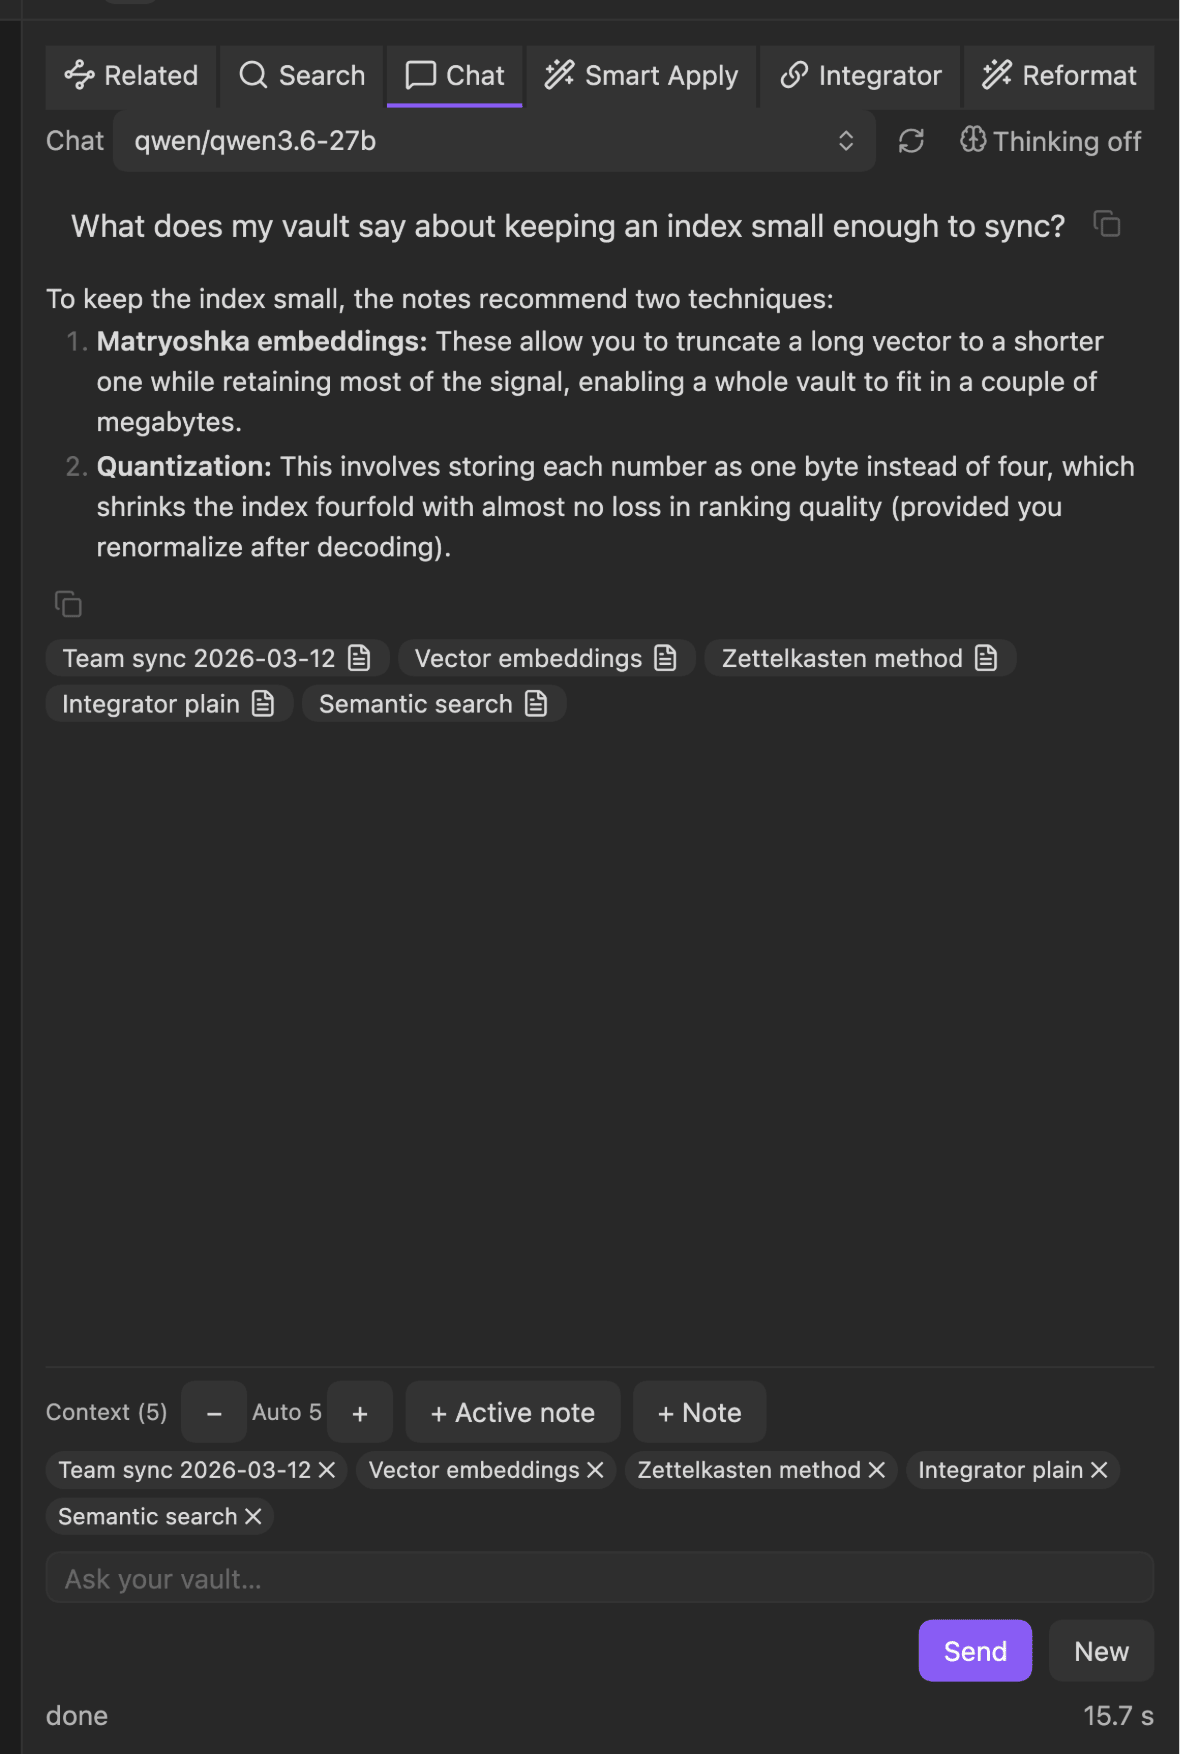
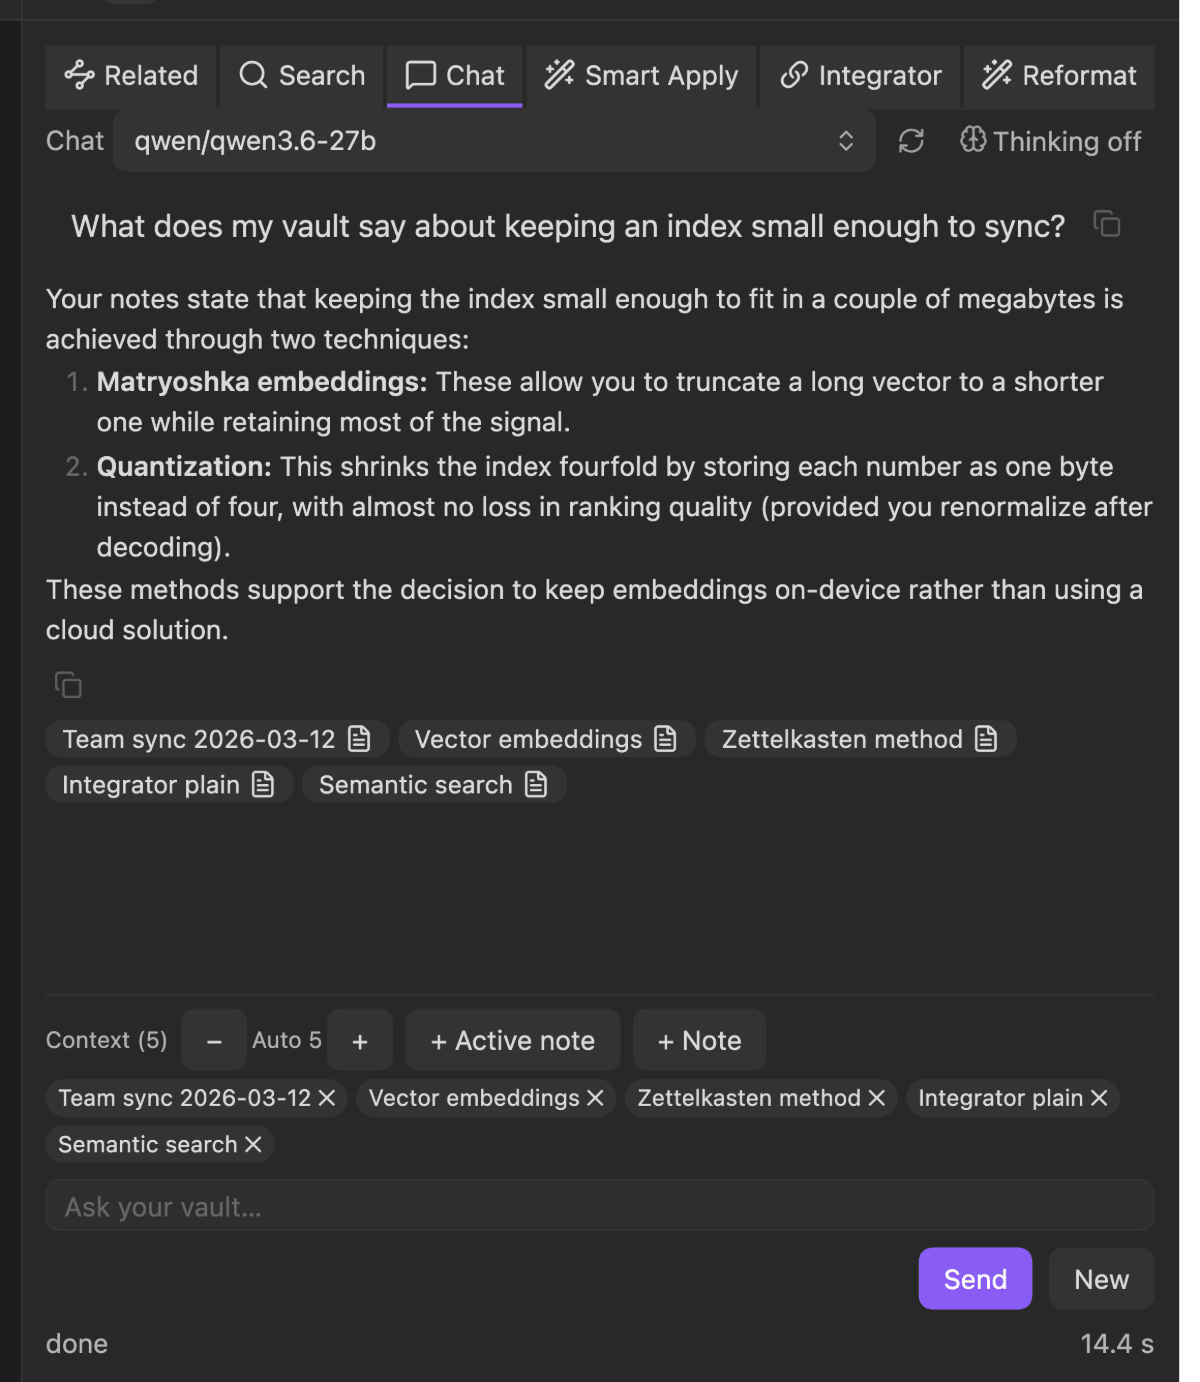
docs(images): chat.png ohne leere Fläche (Fensterhöhe je Bild im Rezept)
Das Kit-Chatfenster füllt die Panelhöhe; chat.png bekommt eine eigene Fensterhöhe (720 px), damit
readme_lint image-whitespace nicht anschlägt. Neu aufgenommen mit den echten Modellen.

diff --git a/scripts/shots.ts b/scripts/shots.ts
@@ -136,6 +136,8 @@ interface Shot {
   klasse: "hero" | "feature" | "detail";
   /** Aus welchem Fenster: der Workspace oder das eigene Einstellungs-Fenster. */
   fenster?: "workspace" | "settings";
+  /** Fensterhöhe in CSS-Pixeln für dieses Bild (Standard `FENSTER_HOEHE`). */
+  fensterHoehe?: number;
   /**
    * Zustand herstellen — laeuft IMMER im Workspace-Fenster, auch bei `fenster: "settings"`.
    *
@@ -453,6 +455,7 @@ const SHOTS: Shot[] = [
   {
     name: "chat.png",
     klasse: "feature",
+    fensterHoehe: 720,
     async run(cdp) {
       if (!(await openExisting(cdp, HERO_NOTIZ, "preview"))) return null;
       await closeExtraLeaves(cdp);
@@ -1232,6 +1235,9 @@ async function main(): Promise<void> {
         await schliesseEinstellungen(cdp);
         continue;
       }
+      // Das Kit-Chatfenster füllt die Höhe des Panels: ein Bild mit kurzer Antwort bekäme sonst eine leere Fläche zwischen Antwort und Eingabe
+      // (readme_lint `image-whitespace`). Je Bild die Fensterhöhe, die der Inhalt braucht; ohne Angabe die Standardhöhe.
+      await setWindowSize(cdp, FENSTER_BREITE, shot.fensterHoehe ?? FENSTER_HOEHE);
       await aufnehmen(shot, cdp, opts);
     }
   } finally {
